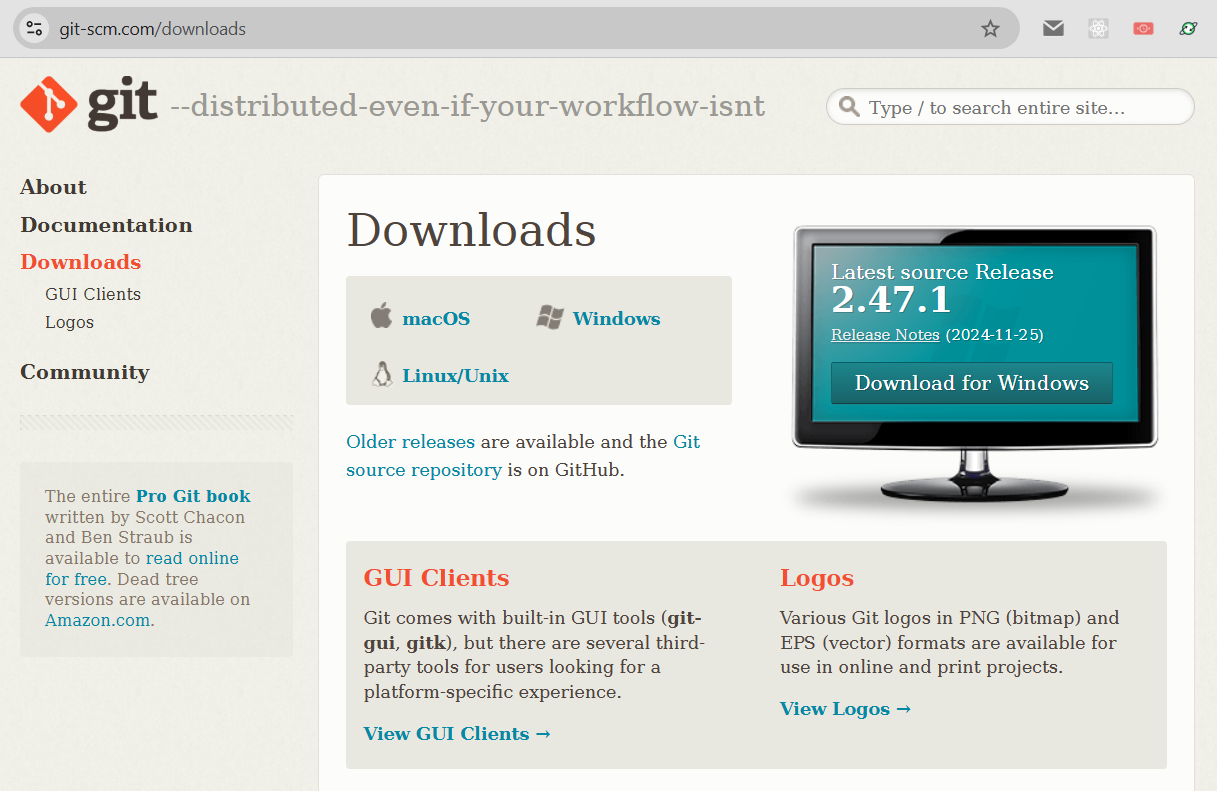
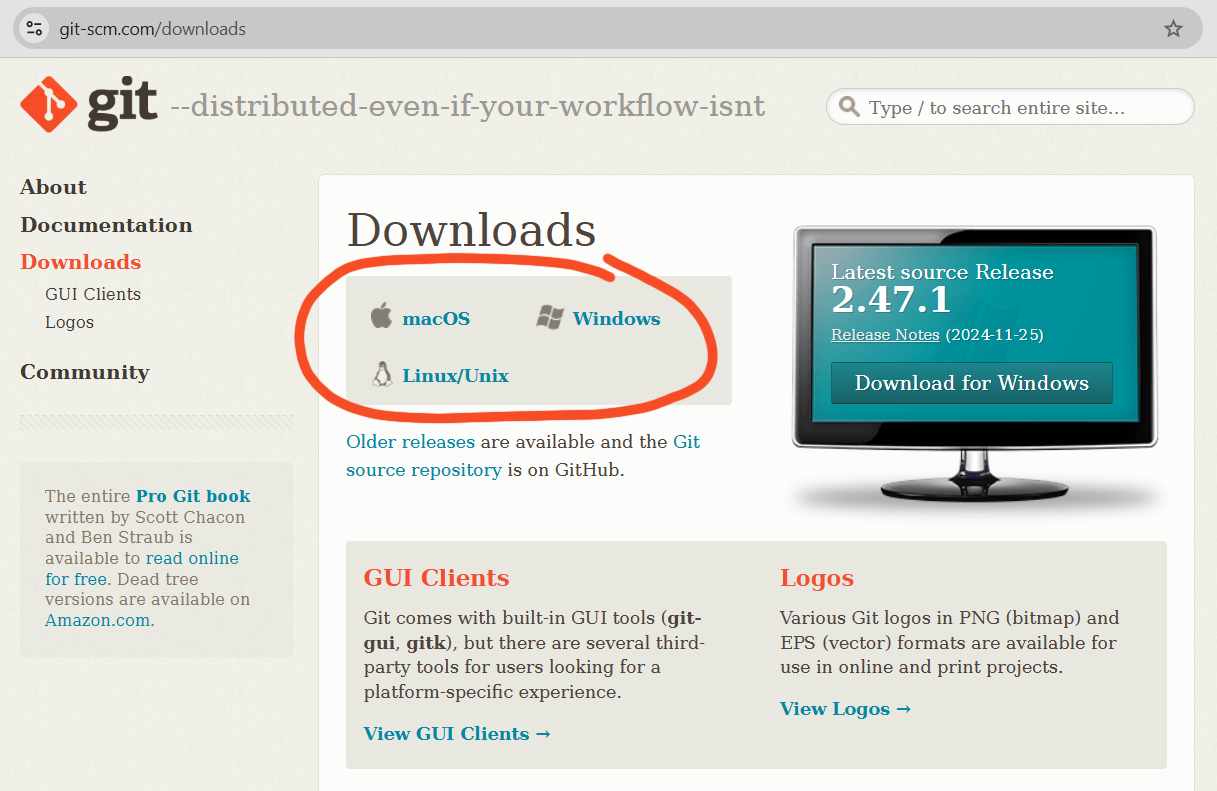
Downlaod Screenshots added

Changed region(s): [[0.2498, 0.3034, 0.5933, 0.5461], [0.8118, 0.0, 0.9992, 0.0607], [0.2186, 0.3944, 0.2498, 0.4551]]

diff --git a/README.md b/README.md
@@ -32,6 +32,9 @@ Before Git became popular, developers used proprietary systems like SCCS (Source
 
 #### Windows:
 
+![Download git](screenshots/git-downlaod-screenshot.png)
+![Download git For windows](screenshots/git-downlaod-screenshot-for windows.png)
+
 1. Download the Git installer from <a href="https://git-scm.com/" target="_blank">git-scm.com</a>.
 2. Run the installer and follow the prompts.
 3. Verify the installation by opening a terminal and running:
